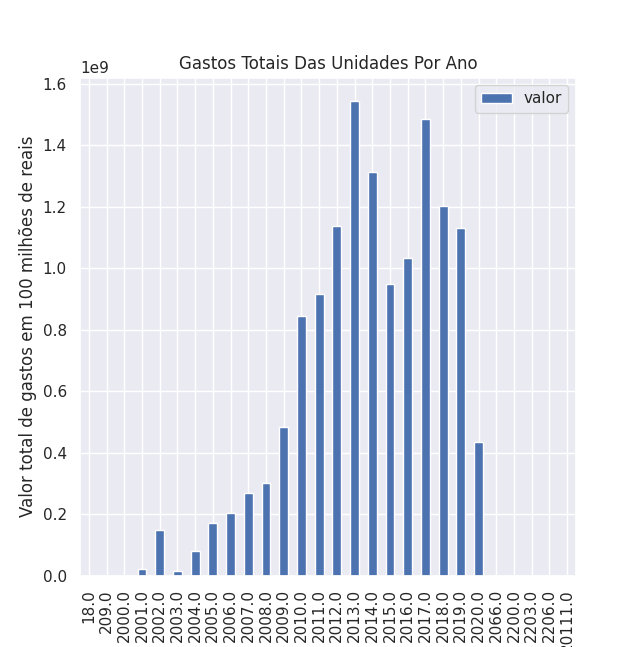
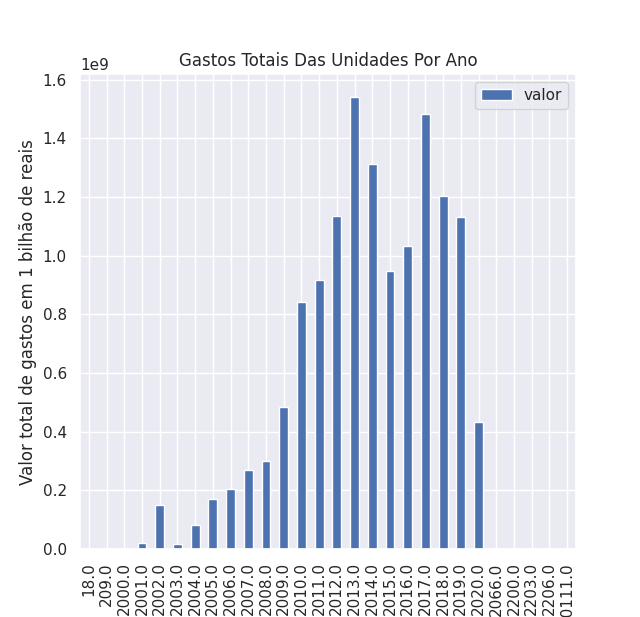
Updating graphics in main and in images/

diff --git a/main.py b/main.py
@@ -29,7 +29,7 @@ ano_sum = df.groupby(["ano"])["valor"].sum()
 ano_sum.plot.bar()
 
 plt.xlabel('Ano')
-plt.ylabel('Valor total de gastos em 100 milhões de reais')
+plt.ylabel('Valor total de gastos em 1 bilhão de reais')
 
 plt.title('Gastos Totais Das Unidades Por Ano')
 plt.legend()
